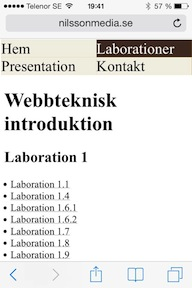
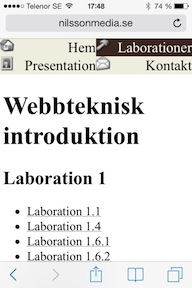
Gjorde om mobilsidan utifrån viewport initial scale 1.0. Bakgrundsbilderna i menyn och till blogginläggen finns nu med på mobilsidan också. Bloggen uppdaterad

diff --git a/index.html b/index.html
@@ -2,7 +2,8 @@
 <html lang="sv">
 <head>
 	<meta charset="utf-8">
-	<link rel="stylesheet" media="screen and (min-width:481px)" href="css/style.css" />
+	<meta name="viewport" content="width:device-width, initial-scale=1.0" /> 
+	<link rel="stylesheet" media="screen and (min-device-width:481px)" href="css/style.css" />
 	<link rel="stylesheet" media="only screen and (max-device-width:480px)" href="css/mobile.css" />
 	<link rel="shortcut icon" href="pics/favicon.ico" type="image/x-icon" />
 	<link rel="apple-touch-icon" href="pics/apple-touch-icon.png" />
@@ -47,30 +48,29 @@
 						Kursblogg
 					</h1>
 					<article>
-						<div class="table-container">
-							<div class="blog-logo-background table-cell-container">
-							</div>
-							<div class="table-cell-container">
-								<h3>Laboration 4</h3>
-							</div>
+						<div class="blog-logo-background">
+							<h3>Laboration 4</h3>
 						</div>
 						<p>
 							Bilder på den mobilanpassade sidan:<br>
-							<img src="pics/mobile1.jpg" alt="Mobilbild 1">
-							<img src="pics/mobile2.jpg" alt="Mobilbild 2">
-							<img src="pics/mobile3.jpg" alt="Mobilbild 3">
-							<img src="pics/mobile4.jpg" alt="Mobilbild 4">
+							<h4>iOS:</h4>
+							<img src="pics/mobile1.jpg" alt="Mobilbild iOS 1">
+							<img src="pics/mobile2.jpg" alt="Mobilbild iOS 2">
+							<img src="pics/mobile3.jpg" alt="Mobilbild iOS 3">
+							<img src="pics/mobile4.jpg" alt="Mobilbild iOS 4">
+							<h4>Android:</h4>
+							<img src="pics/android1.png" alt="Mobilbild android 1">
+							<img src="pics/android2.png" alt="Mobilbild android 2">
+							<img src="pics/android3.png" alt="Mobilbild android 3">
+							<img src="pics/android4.png" alt="Mobilbild android 4">
 						</p>
-						<p><i>Skrivet av Peter Nilsson, <time>2013-09-29</time></i></p>
+						<p><i>Skrivet av Peter Nilsson, <time>2013-10-07</time></i></p>
 					</article>
 					<article>
-						<div class="table-container">
-							<div class="blog-logo-background table-cell-container">
-							</div>
-							<div class="table-cell-container">
-								<h3>Laboration 3.3</h3>
-							</div>
+						<div class="blog-logo-background">
+							<h3>Laboration 3.3</h3>
 						</div>
+						
 						<p>
 							Här kan man se resultatet av laboration 3.3 - "Copycat"<br>
 							<a href="https://c9.io/pn222ez_1/uppgift-3-3/workspace/index.html" target="_blank">https://c9.io/pn222ez_1/uppgift-3-3/workspace/index.html</a>
@@ -78,12 +78,8 @@
 						<p><i>Skrivet av Peter Nilsson, <time>2013-09-29</time></i></p>
 					</article>
 					<article>
-						<div class="table-container">
-							<div class="blog-logo-background table-cell-container">
-							</div>
-							<div class="table-cell-container">
-								<h3>Ett inlägg med bilden till höger</h3>
-							</div>
+						<div class="blog-logo-background">
+							<h3>Ett inlägg med bilden till höger</h3>
 						</div>
 						<p>
 							<img src="pics/sandvik.jpg" class="right margin-image" alt="Sandvik Öland">
@@ -96,12 +92,8 @@
 						<p><i>Skrivet av Peter Nilsson, <time>2013-09-20</time></i></p>
 					</article>
 					<article>
-						<div class="table-container">
-							<div class="blog-logo-background table-cell-container">
-							</div>
-							<div class="table-cell-container">
-								<h3>Ett inlägg med bilden till vänster</h3>
-							</div>
+						<div class="blog-logo-background">
+							<h3>Ett inlägg med bilden till vänster</h3>
 						</div>
 						<p>
 							<img src="pics/myresjohus.jpg" class="left margin-image" alt="Myresjöhus arena">
@@ -114,12 +106,8 @@
 						<p><i>Skrivet av Peter Nilsson, <time>2013-09-20</time></i></p>
 					</article>
 					<article>
-						<div class="table-container">
-							<div class="blog-logo-background table-cell-container">
-							</div>
-							<div class="table-cell-container">
-								<h3>Ett första inlägg</h3>
-							</div>
+						<div class="blog-logo-background">
+							<h3>Ett första inlägg</h3>
 						</div>
 						<p>
 							Detta är mitt första inlägg på min blogg!
@@ -127,18 +115,14 @@
 						<p><i>Skrivet av Peter Nilsson, <time>2013-09-04</time></i></p>
 					</article>
 					<article id="lab1-6-2">
-						<div class="blog-logo-background table-cell-container">
-						</div>
-						<div class="table-cell-container">
+						<div class="blog-logo-background">
 							<h3>Ett andra inlägg</h3>
 						</div>
 						<figure><img src="pics/logo.svg" alt="svg-logo"></figure>
 						<p><i>Skrivet av Peter Nilsson, <time>2013-09-04</time></i></p>
 					</article>
 					<article id="lab1-7">
-						<div class="blog-logo-background table-cell-container">
-						</div>
-						<div class="table-cell-container">
+						<div class="blog-logo-background">
 							<h3>Videoinlägg</h3>
 						</div>
 						<video width="568" height="320" class="right margin-image" controls>

diff --git a/css/mobile.css b/css/mobile.css
@@ -6,9 +6,11 @@ Text color header, footer: #FFF
 Text color main: #000
 Menu background: #F2EFE4
 */
-@media only screen and (max-device-width:480px) {
+@media only screen and (max-width:480px) {
 	body {
 		color: #FFF;
+		margin: 0;
+		padding: 0;
 	}
 	
 	footer {
@@ -27,7 +29,12 @@ Menu background: #F2EFE4
 		width: 100%;
 		background-color: #F2EFE4;
 		color: #000;
-		font-size: 400%;
+		font-size: 1.3em;
+	}
+	
+	#body-container img, #body-container video {
+		max-width: 80%;
+		height: auto;
 	}
 	
 	#header-container {
@@ -40,13 +47,8 @@ Menu background: #F2EFE4
 		background-color: #CB8C1D;
 	}
 	
-	#navigation-container li#home, #navigation-container li#labs, #navigation-container li#pres, #navigation-container li#contact {
-		background-image: none;
-		padding: 0;
-	}
-	
 	#menu-container ul {
-		font-size: 3em;
+		font-size: 1.5em;
 		height: 100%;
 		margin: 0;
 		padding: 0;
@@ -62,7 +64,7 @@ Menu background: #F2EFE4
 	}
 	
 	.margin-left {
-		margin: 0 0 0 20px;
+		margin: 0 0 0 5px;
 	}
 	
 	.left {
@@ -92,8 +94,8 @@ Menu background: #F2EFE4
 	nav li {
 		list-style: none;
 		background-color: #F2EFE4;
-		background-image: none;
 		width: 50%;
+		padding: 0;
 	}
 	
 	nav li:hover {
@@ -141,7 +143,20 @@ Menu background: #F2EFE4
 	}
 	
 	.blog-logo-background {
-		background-image: none;
+		background-image: url('pics/blog-logo.png');
+		background-repeat: no-repeat;
+		width: 48px;
+		height: 48px;
+	}
+	
+	.blog-logo-background h3 {
+		padding: 0 0 0 48px;
+		width: 300px;
+	}
+	
+	table {
+		width: 80%;
+		height: 80%;
 	}
 	
 	table, tr, td {
@@ -162,18 +177,27 @@ Menu background: #F2EFE4
 		background-color: #FFF;
 	}
 	
-	select, input {
+	label {
+		font-size: 1.5em;
+	}
+	
+	select, input[type=text] {
 		border: 1px #CB8C1D solid;
-		width: 90%;
-		height: 100px;
+		width: 100%;
+		height: 2.5em;
 		font-size: 1em;
 	}
 	
 	textarea {
 		border: 1px #CB8C1D solid;
 		width: 100%;
-		height: 400px;
+		height: 180px;
 		font-size: 1em;
+	}
+	
+	input[type=checkbox] {
+		width: 2.5em;
+		height: 2.5em;
 	}
 	
 	input[type=submit] {
@@ -181,10 +205,11 @@ Menu background: #F2EFE4
 		color: #FFF;
 		height: 2.5em;
 		width: 100%;
+		font-size: 1em;
 	}
-	/*
+	
 	#home, #labs, #pres, #contact {
-		padding: 0 0 0 26px;
+		text-align: right;
 	}
 	
 	#navigation-container li#home {
@@ -226,7 +251,7 @@ Menu background: #F2EFE4
 	#navigation-container li#contact:hover {
 		background-position: 0 -288px;
 	}
-	*/
+	
 }
 
 @media print {

diff --git a/pages/kontakt.html b/pages/kontakt.html
@@ -2,7 +2,8 @@
 <html lang="sv">
 <head>
 	<meta charset="utf-8">
-	<link rel="stylesheet" media="screen and (min-width:481px)" href="../css/style.css" />
+	<meta name="viewport" content="width:device-width, initial-scale=1.0" /> 
+	<link rel="stylesheet" media="screen and (min-device-width:481px)" href="../css/style.css" />
 	<link rel="stylesheet" media="only screen and (max-device-width:480px)" href="../css/mobile.css" />
 	<link rel="shortcut icon" href="../pics/favicon.ico" type="image/x-icon" />
 	<link rel="apple-touch-icon" href="../pics/apple-touch-icon.png" />

diff --git a/pages/laborationer.html b/pages/laborationer.html
@@ -2,7 +2,8 @@
 <html lang="sv">
 <head>
 	<meta charset="utf-8">
-	<link rel="stylesheet" media="screen and (min-width:481px)" href="../css/style.css" />
+	<meta name="viewport" content="width:device-width, initial-scale=1.0" /> 
+	<link rel="stylesheet" media="screen and (min-device-width:481px)" href="../css/style.css" />
 	<link rel="stylesheet" media="only screen and (max-device-width:480px)" href="../css/mobile.css" />
 	<link rel="shortcut icon" href="../pics/favicon.ico" type="image/x-icon" />
 	<link rel="apple-touch-icon" href="../pics/apple-touch-icon.png" />

diff --git a/pages/presentation.html b/pages/presentation.html
@@ -2,7 +2,8 @@
 <html lang="sv">
 <head>
 	<meta charset="utf-8">
-	<link rel="stylesheet" media="screen and (min-width:481px)" href="../css/style.css" />
+	<meta name="viewport" content="width:device-width, initial-scale=1.0" /> 
+	<link rel="stylesheet" media="screen and (min-device-width:481px)" href="../css/style.css" />
 	<link rel="stylesheet" media="only screen and (max-device-width:480px)" href="../css/mobile.css" />
 	<link rel="shortcut icon" href="../pics/favicon.ico" type="image/x-icon" />
 	<link rel="apple-touch-icon" href="../pics/apple-touch-icon.png" />

diff --git a/css/style.css b/css/style.css
@@ -24,7 +24,6 @@ Menu background: #F2EFE4
 	}
 	
 	#body-container {
-		
 		width: 80%;
 		height: 660px;
 		background-color: #F2EFE4;
@@ -143,6 +142,11 @@ Menu background: #F2EFE4
 		background-repeat: no-repeat;
 		width: 48px;
 		height: 48px;
+	}
+	
+	.blog-logo-background h3 {
+		padding: 0 0 0 48px;
+		width: 300px;
 	}
 	
 	table, tr, td {
